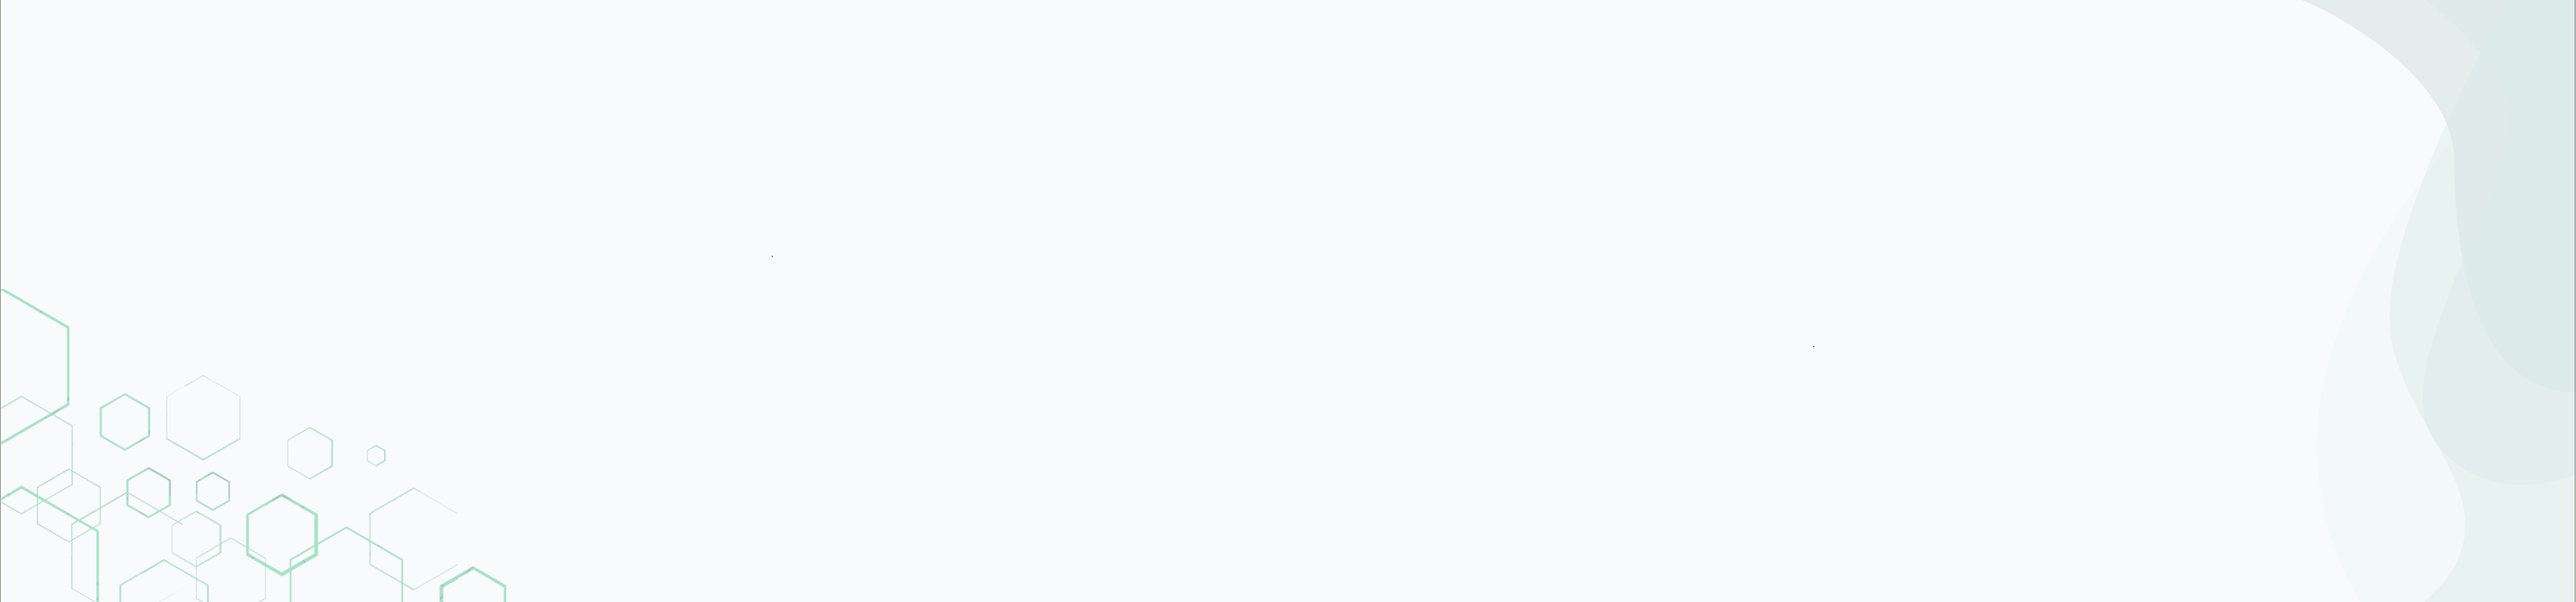
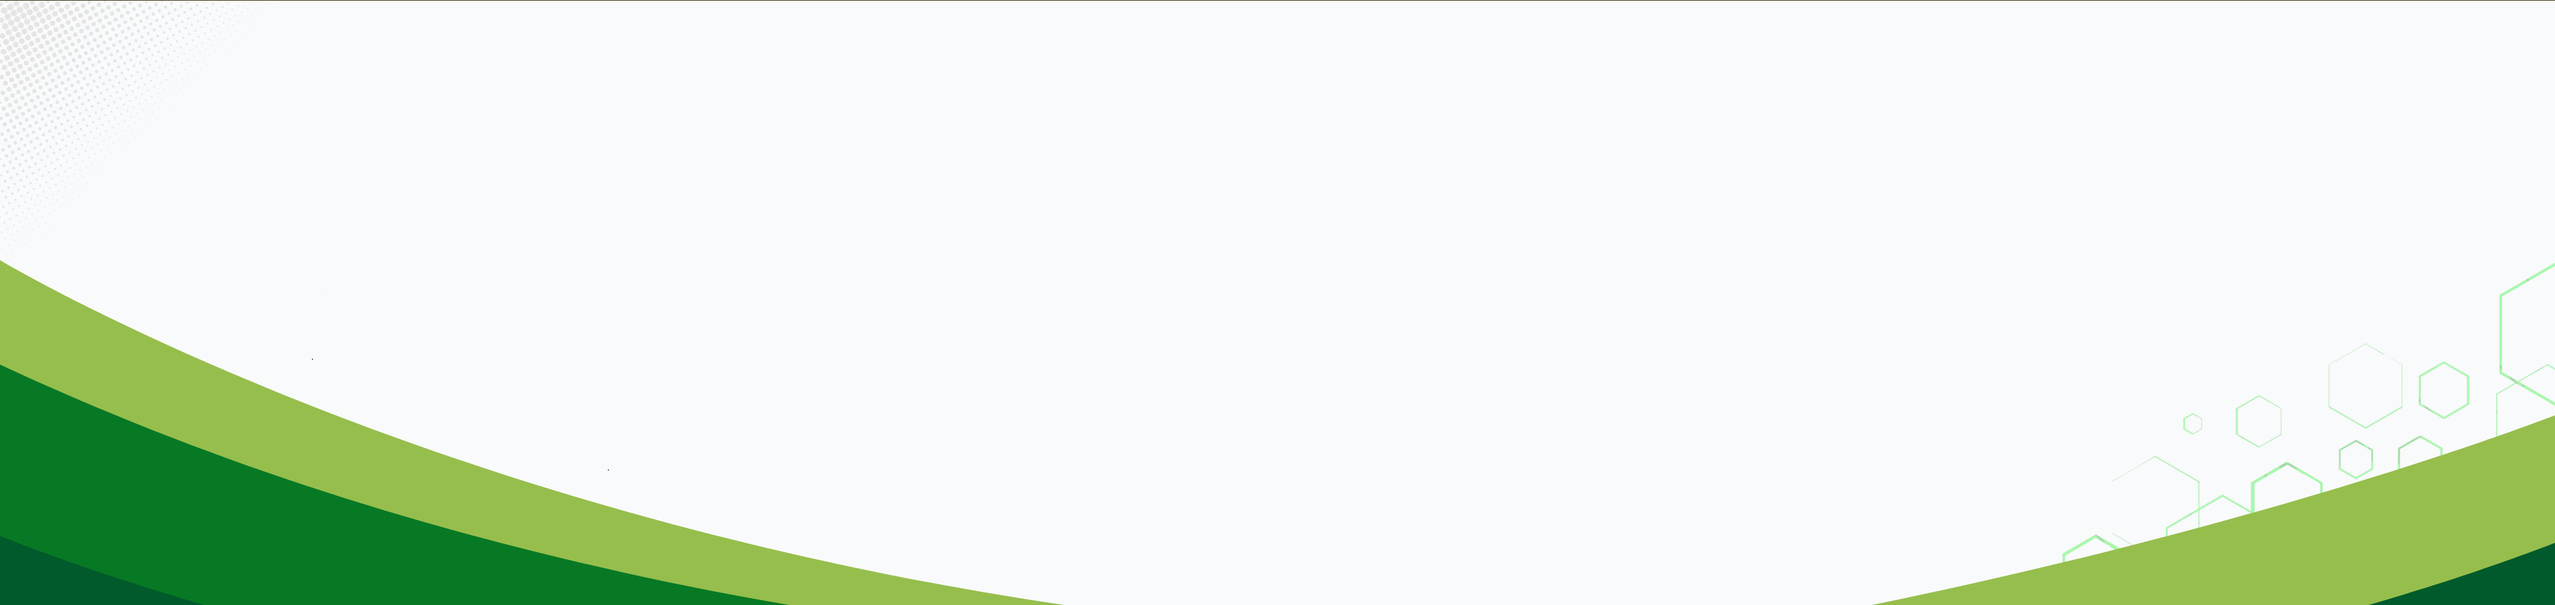
style: update footer and add background image to pages

Changed region(s): [[0.7181, 0.0, 1.0, 1.0], [0.0, 0.4247, 0.4059, 1.0]]

diff --git a/src/components/aboutPage/BusinessCompetitiveSection.jsx b/src/components/aboutPage/BusinessCompetitiveSection.jsx
@@ -5,7 +5,16 @@ import SectionHeader from "../ui/SectionHeader";
 
 function BusinessCompetitiveSection() {
   return (
-    <section className="py-20 bg-slate-50/50">
+    <section className="relative w-full bg-cover bg-center bg-no-repeat py-20 lg:py-15">
+      <div
+        className="absolute inset-0
+      bg-[url('/images/b2.jpg')]
+      bg-cover bg-center bg-no-repeat
+      opacity-100
+      [mask-image:linear-gradient(to_bottom,black_0%,black_100%,transparent_100%)]
+      [-webkit-mask-image:linear-gradient(to_bottom,black_0%,black_50%,transparent_100%)]"
+      />
+      <div className="relative z-10">
       <Container>
         <motion.div
           initial={{ opacity: 0, y: 30 }}
@@ -20,6 +29,7 @@ function BusinessCompetitiveSection() {
           />
         </motion.div>
       </Container>
+      </div>
     </section>
   );
 }

diff --git a/src/components/homePage/FeaturedProducts.jsx b/src/components/homePage/FeaturedProducts.jsx
@@ -6,7 +6,16 @@ import { motion } from "framer-motion";
 
 function FeaturedProducts() {
   return (
-    <section className="py-24 bg-white">
+   <section className="relative w-full bg-cover bg-center bg-no-repeat py-20 lg:py-15">
+      <div
+        className="absolute inset-0
+      bg-[url('/images/b1.jpg')]
+      bg-cover bg-center bg-no-repeat
+      opacity-100
+      [mask-image:linear-gradient(to_bottom,black_0%,black_100%,transparent_100%)]
+      [-webkit-mask-image:linear-gradient(to_bottom,black_0%,black_50%,transparent_100%)]"
+      />
+      <div className="relative z-10">
       <Container>
         <motion.div
           initial={{ opacity: 0, y: 30 }}
@@ -61,6 +70,7 @@ function FeaturedProducts() {
           </div>
         </motion.div>
       </Container>
+      </div>
     </section>
   );
 }

diff --git a/src/components/productPage/NiproSection.jsx b/src/components/productPage/NiproSection.jsx
@@ -19,7 +19,7 @@ function NiproSection() {
             <SectionHeader
             badge="Nipro"
               title="Nipro Medical Equipment"
-              description="Metcare is an authorized distributor of Nipro Medical Europe, Download official brochures below or contact our sales team for direct product specifications and institutional quotes."
+              description="Metcare is an authorized distributor of Nipro Medical Europe, Download official brochures below or contact us for direct product specifications and institutional quotes."
               center={false}
             />
             <div className="mt-8 flex flex-wrap gap-4">

diff --git a/src/components/aboutPage/HeroSection.jsx b/src/components/aboutPage/HeroSection.jsx
@@ -10,8 +10,8 @@ function HeroSection() {
         className="absolute inset-0
       bg-[url('/images/about/bg.webp')]
       bg-cover bg-center bg-no-repeat
-      opacity-80
-      [mask-image:linear-gradient(to_bottom,black_0%,black_50%,transparent_100%)]
+      opacity-100
+      [mask-image:linear-gradient(to_bottom,black_0%,black_100%,transparent_100%)]
       [-webkit-mask-image:linear-gradient(to_bottom,black_0%,black_50%,transparent_100%)]"
       />
       <div className="relative z-10">

diff --git a/src/components/layout/Footer.jsx b/src/components/layout/Footer.jsx
@@ -122,7 +122,7 @@ function Footer() {
         </div>
       </div>
 
-      <div className="border-t border-gray-400 py-6 text-center text-white text-sm bg-green-800">
+      <div className="py-6 text-center text-white text-sm bg-[#005a2b] border-t border-green-900">
         © {new Date().getFullYear()} Metcare. All rights reserved.
       </div>
       {/* <div className="h-5 w-full bg-slate-100" /> */}

diff --git a/src/components/homePage/CompanyIntroduction.jsx b/src/components/homePage/CompanyIntroduction.jsx
@@ -5,7 +5,7 @@ import aboutImage from "../../assets/images/about-us.webp";
 
 function CompanyIntroduction() {
   return (
-    <section className="py-20 bg-white">
+    <section className="py-20">
       <Container>
         <div className="grid items-center gap-16 lg:grid-cols-2">
           {/* Left */}

diff --git a/src/components/homePage/Services.jsx b/src/components/homePage/Services.jsx
@@ -6,7 +6,7 @@ import Button from "../ui/Button";
 
 function Services() {
   return (
-    <section className="py-20 bg-slate-50/50">
+    <section className="py-20">
       <Container>
         <motion.div
           initial={{ opacity: 0, y: 30 }}
